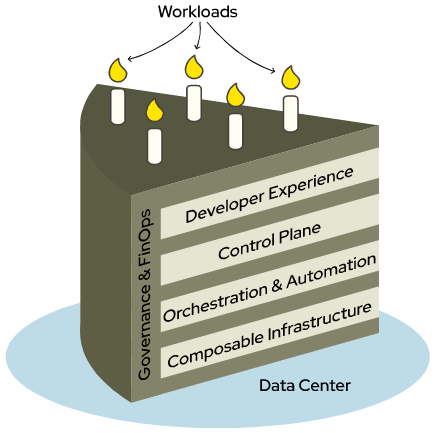
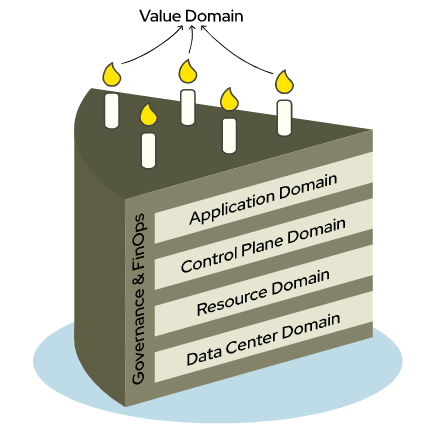
refactor domains based on Adam's draw.io picture make Value the "zero domain"

Changed region(s): [[0.0, 0.0, 0.9839, 0.9908], [0.5069, 0.0901, 0.5367, 0.1201], [0.3578, 0.0901, 0.3876, 0.1201]]

diff --git a/taxonomy/README.md b/taxonomy/README.md
@@ -1,17 +1,18 @@
 # Taxonomy of DCM
 
-This taxonomy of DCM achieves three key goals. First, it defines the top-level domains that distinguish  the functions and roles of the DCM architecture. Next, it defines a specific vocabulary with the intent of enabling precision and clarity by eliminating ambiguity. Finally, an "anti-vocabulary" defines a list of ambiguous phrases and "weasel words" to avoid and recommends more specific terms to use instead.
+This taxonomy of DCM achieves three key goals. First, it defines the top-level domains that distinguish the functions and roles of the DCM architecture. Next, it defines a specific vocabulary with the intent of enabling precision and clarity by eliminating ambiguity. Finally, an "anti-vocabulary" defines a list of ambiguous phrases and "weasel words" to avoid and recommends more specific terms to use instead.
 
 ## Top-level architectural domains
 
-The taxonomy defines the functional areas enabled by the DCM architectural as five top-level domains. Each domain maps a set of DCM services and resources defined by the architecture to the different roles and teams across an organization that experience them.
+The taxonomy defines the functional areas enabled by the DCM architectural as six top-level domains. Each domain maps a set of DCM capabilities defined by the architecture to the different roles and teams across an organization that experience them.
 
 The top-level domains are defined as follows:
 
-1. **Developer Experience** - This domain delivers the Unified interface that Developers and Application Owners use to request and manage Services from DCM. It includes the Service Catalog listing the available Services. Multi-tenancy is experienced at this level.
+0. **Value** - The "zero domain" recognizes the business value achieved through the abstract capabilities enabled by the end-to-end architecture, for example, improved security and compliance, accelerated software deployments and cost saving thanks to reduced operational toil.
+1. **Application** - This domain delivers the Unified interface that Developers and Application Owners use to request and manage Services from DCM. It includes the Service Catalog listing the available Services. Multi-tenancy is experienced at this level.
 2. **Control Plane** - This is the central nervous system of DCM. It maintains the Unified API and Data Model including the inventory of Fulfilled Services. It also enforces authentication and role-based access control.
-3. **Orchestration & Automation** - This domain contains the code and workflows for provisioning and managing the Resources required to Fulfill Sefvice request. It provides the engines that execute requests from the Control Plane and translates those into API calls supported by specific Infrastructure Platforms hosted under the Composable Infrastructure domain.
-4. **Composable Infrastructure** - This domain represents the physical and virtual assets in the data center. This is where the basic compute, storage and networking Resources are provisioned.
+3. **Resource** - This domain contains the code and workflows for provisioning and managing the Resources required to Fulfill Service request. It provides the engines that execute requests from the Control Plane and translates those into API calls supported by specific Infrastructure Platforms hosted under the Data Center domain.
+4. **Data Center** - This domain represents the physical and virtual composable infrastructure in the data center. This is where the basic compute, storage and networking resources are provisioned.
 5. **Governance & FinOps** - This domain is the set of overarching requirements that ensure DCM operations are secure, compliant, and cost-effective. It encompasses policy management, real-time metrics, and cost allocation.
 
 Everything in the DCM architecture exists under one of these domains.
@@ -20,13 +21,13 @@ How these domains are connected can be easily understood using a layer cake anal
 
 ![Layer cake analogy drawing described below](./images/layer_cake.png)
 
-Each layer of cake represents a domain that interacts only with the domains directly above and below it. For example, the architecture prohibits a direct connection from the Developer Experience domain to the Orchestration & Automation domain, Instead, Developer Experience must always use the Control Plane to request and manage resources available from the lower domains.
+Each layer of cake represents a domain that interacts only with the domains directly above and below it. For example, the architecture prohibits a direct connection from the Application domain to the Resource domain, Instead, capabilities under the Application domain must always use the Control Plane to request and manage resources available from the lower domains.
 
 The exception to this rule is the Governance & FinOps domain. It is the frosting of our cake and it touches all the layers. This aligns with the overarching functions of the Governance & FinOps domain requiring observability at every level of the architecture.
 
 ## Vocabulary
 
-DCM is a complex technology architecture stretching from the depths of bare metal on data center floor up to the high-level abstractions required to achieve secure multi-tenancy in the service of cloud consuming application owners and developers.
+DCM is a complex technology architecture stretching from the depths of bare metal on the data center floor up to the high-level abstractions required to achieve secure multi-tenancy in the service of cloud consuming application owners and developers.
 
 The vocabulary we use to define this architecture demands precision and clarity. By allowing a term to have a distinct, contextual definition within each architectural domain, we can eliminating ambiguity even when using the same words.
 
@@ -48,15 +49,15 @@ Dynamic data also falls under the scope of the Data Model. For example, the stat
 
 ### Infrastructure Platform
 
-Infrastructure Platforms refer to the Data Center infrastructure and platforms that provide Resources within the Composable Infrastructure domain. An Infrastructure Platform may be physical hardware or a software platform, for example, bare metal servers, network gear, storage arrays, virtualization platforms, Kubernetes clusters, etc. Each Infrastructure Platform defines the physical and/or virtual Resources it supports, such as compute, storage, network, VM instances, Kubernetes cluster objects, etc.
+Infrastructure Platforms refer to the Data Center infrastructure and platforms that provide Resources within the Data Center domain. An Infrastructure Platform may be physical hardware or a software platform, for example, bare metal servers, network gear, storage arrays, virtualization platforms, Kubernetes clusters, etc. Each Infrastructure Platform defines the physical and/or virtual Resources it supports, such as compute, storage, network, VM instances, Kubernetes cluster objects, etc.
 
 An Infrastructure Platform provides an API used by a Service Provider to provision, decommission, make state changes to and enable discovery of the Resources it supports. Infrastructure Platforms must also expose event logging and metrics collection to the Governance & FinOps domain required to support monitoring, observability and billing.
 
 ### Multi-tenant
 
-DCM multi-tenancy is experienced at the Developer Experience domain and enforced by the Control Plane.
+DCM multi-tenancy is experienced at the Application domain and enforced by the Control Plane.
 
-The Orchestration & Automation and Composable Infrastructure domains operate in "privileged mode” to implement the isolation and confinement required for multi-tenancy.
+The Resource and Data Center domains operate in "privileged mode" to implement the isolation and confinement required for multi-tenancy.
 
 The Governance & FinOps domain has access to the tenant-wide scope required to implement policy management, monitoring and billing.
 
@@ -70,9 +71,9 @@ A Region is a large, geographically distinct area that hosts Resources. It can b
 
 ### Service
 
-In the absence of further context, a Service is the specific capability defined by a Service Catalog item within the Developer Experience domain. Services provide the underlying Resources that Applications rely on. They are often designed to be reusable for multiple Applications. A Service could simply define a single underlying Resource, but more capable Services will define a configuration of many connected Resources. Compound Services may be defined by composing a number of simple Services under a single Service Catalog item.
+In the absence of further context, a Service is the specific capability defined by a Service Catalog item within the Application domain. Services provide the underlying Resources that Applications rely on. They are often designed to be reusable for multiple Applications. A Service could simply define a single underlying Resource, but more capable Services will define a configuration of many connected Resources. Compound Services may be defined by composing a number of simple Services under a single Service Catalog item.
 
-Take care not confuse Services as defined above with what Service Providers deliver within the Composable Infrastructure domain. Contrary to what the name implies, Service Providers define and provision Resources, not Services. If you must, you could say Service Providers manage Infrastructure Services. Likewise, other services should also be disambiguated, for example, DNS service, database service, room service, etc.
+Take care not confuse Services as defined above with what Service Providers deliver within the Data Center domain. Contrary to what the name implies, Service Providers define and provision Resources, not Services. If you must, you could say Service Providers manage Infrastructure Services. Likewise, other services should also be disambiguated, for example, DNS service, database service, room service, etc.
 
 ### Service Provider
 
@@ -82,13 +83,13 @@ Service Providers will typically be implemented to support a single specific Inf
 
 ### User
 
-In the absence of further context, a User is the human consumer of cloud computing resources and services experiencing DCM from the Developer Experience domain. Of course, other humans "use" DCM within the other domains, so consider using Developer or Application Owner instead.
+In the absence of further context, a User is the human consumer of cloud computing resources and services experiencing DCM from the Application domain. Of course, other humans "use" DCM within the other domains, so consider using Developer or Application Owner instead.
 
 To avoid confusion, avoid using User when referring to humans acting within the the other DCM domains. Consider more specific persona alternative terms such as Platform Engineer, Infrastructure Operations, Policy Owner, Risk and Compliance Manager, etc.
 
 ### Workload
 
-A Workload is a running instance of a Service that has been Fulfilled at the request of a User in the Developer Experience domain. A Workload is composed of the provisioned Resources required by the Service. The State and usage of the Workload's Resources are monitored by tools in the Governance & FinOps domain to enable observability and billing for Services.
+A Workload is a running instance of a Service that has been Fulfilled at the request of a User in the Application domain. A Workload is composed of the provisioned Resources required by the Service. The State and usage of the Workload's Resources are monitored by tools in the Governance & FinOps domain to enable observability and billing for Services.
 
 ### Zone
 